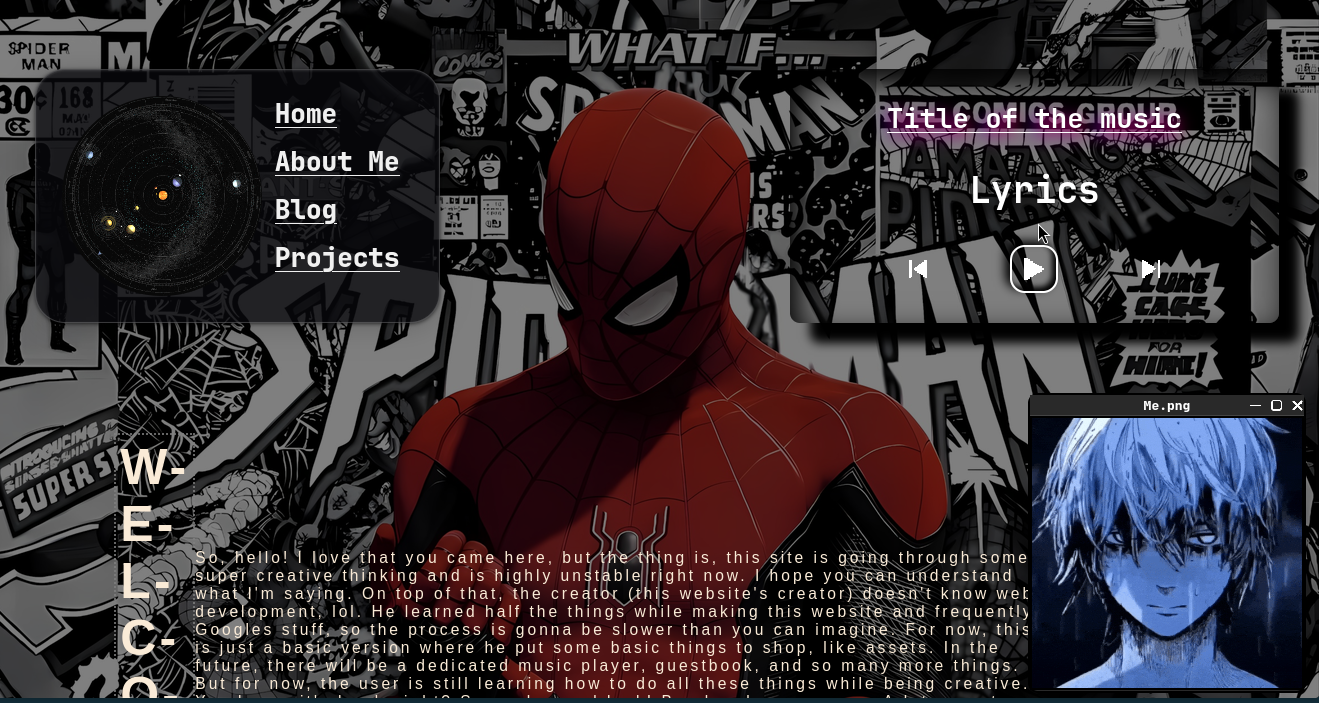
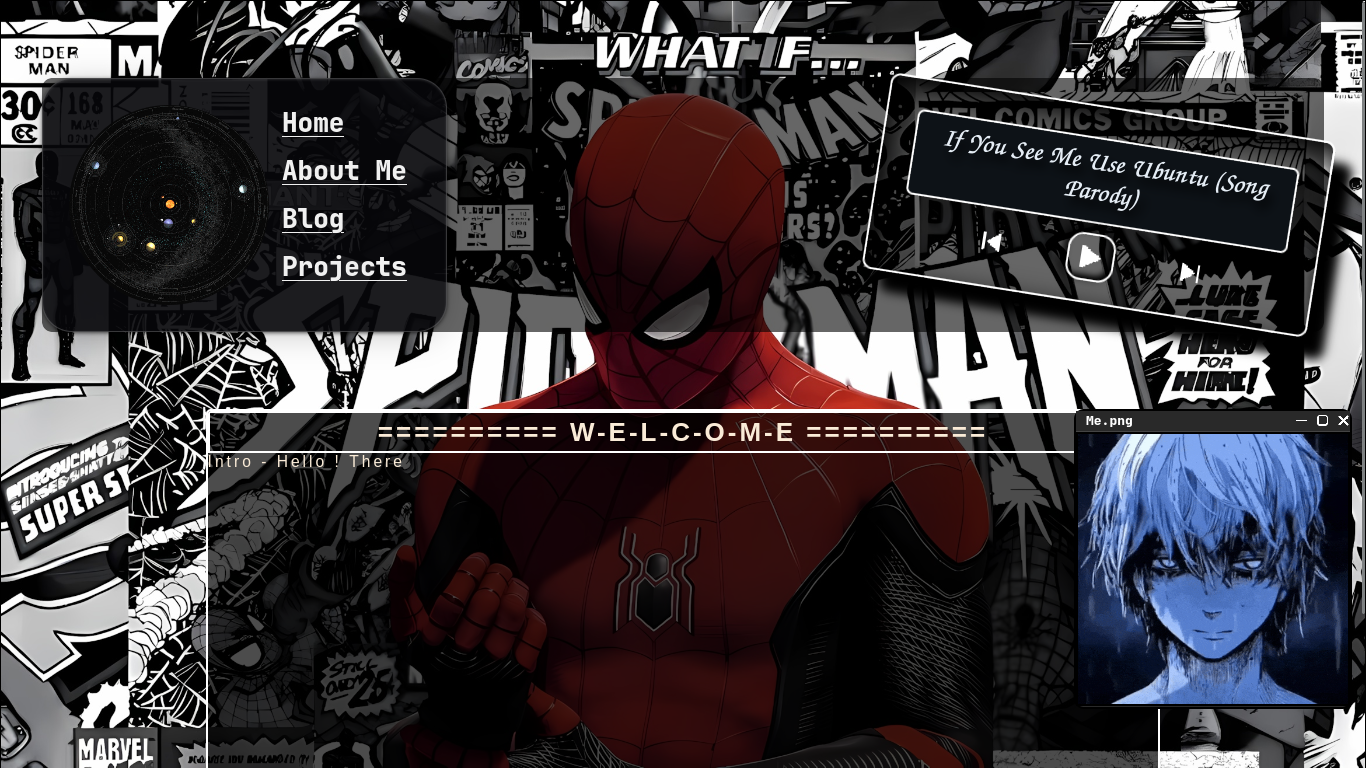
Updated Readme added closing functionality to the app frame and font

diff --git a/style.css b/style.css
@@ -10,7 +10,6 @@ body {
     background-image: url("assets/images/spiderman.png");
     border: 1px solid;
     width: 100vw;
-    backdrop-filter: brightness(50%);
     background-size: cover;
     background-attachment: fixed;
 
@@ -18,37 +17,36 @@ body {
 }
 
 header {
-    justify-content: flex-start;
+    justify-content: space-between;
+
+    backdrop-filter: brightness(40%);
+    border-radius: 10px;
     display: flex;
     margin: 10vh 3vw;
-    /* align-items: center; */
+    align-items: center;
     min-height: max-content;
     width: auto;
 }
 
-#spidermanface {
-    width: 350px;
-    height: auto;
-}
 
 .musicplayer {
-    overflow: hidden;
+    font-family: 'Caveat', cursive;
+    letter-spacing: 0.5px;
+    padding: 20px;
+    transform: rotate(9deg);
     box-shadow: 20px 20px 10px black,
         inset 10px 13px 30px black;
-    display: flex;
-    flex-direction: column;
-    justify-content: space-evenly;
     color: #FFFBF1;
+    border: 2px solid white;
     align-content: center;
+    display: inline-block;
+    position: relative;
     text-align: center;
-    /* color: #241A1B; */
-    font-weight: 500;
-    font-size: 1.4rem;
+    font-weight: 400;
     text-shadow: 5px 8px 10px black;
     border-radius: 10px;
-    width: 350px;
+    width: 450px;
     max-height: 100%;
-    flex-grow: 1;
     position: relative;
 }
 
@@ -118,20 +116,13 @@ header {
 
 
 
-main {
-    margin: 10vh 9vw;
-    color: antiquewhite;
-    height: 80vh;
-    max-height: 70vh;
-    width: 70%;
-    display: flex;
-    justify-content: center;
-}
 
 main h1 {
     padding: 4px;
-    font-size: 50px;
-    border: 2px dotted grey;
+    border: 2px solid white;
+    display: flex;
+    justify-content: center;
+    align-items: center;
 
 }
 
@@ -139,12 +130,27 @@ main p {
     font-size: 1.2rem;
 }
 
-.main-content {
-    display: flex;
+main {
     justify-content: center;
+    display: flex;
+
+
+}
+
+.main-content {
+
+    backdrop-filter: brightness(30%);
+    color: antiquewhite;
+    height: 80vh;
+    max-height: 70vh;
+    width: 70%;
+    white-space: nowrap;
+    overflow: hidden;
+    border: 2px solid white;
     align-items: center;
     letter-spacing: 3px;
     font-family: Arial, Helvetica, sans-serif;
+    border-radius: 5px;
 
 }
 
@@ -198,4 +204,13 @@ a:hover {
     padding: 2rem;
     display: flex;
 
+}
+
+#songtitle-div {
+    margin: 10px;
+    padding: 10px;
+    border: 2px solid white;
+    border-radius: 7px;
+    background-color: #0D1217;
+    color: #E5EDF5;
 }

diff --git a/index.html b/index.html
@@ -7,6 +7,8 @@
     <title></title>
     <link href="style.css" rel="stylesheet" />
     <link href="assets/extra_code/app_frame.css" rel="stylesheet" />
+
+    <link href="https://googleapis.com" rel="stylesheet">
 </head>
 
 <body>
@@ -25,14 +27,13 @@
 
 
 
-        <div id="spidermanface">
-        </div>
 
         <div class="musicplayer">
-            <h2 id="song-title"> </h2>
+            <div id="songtitle-div">
+                <h1 id=song-title>If You See Me Use Ubuntu (Song Parody)</h1>
+            </div>
 
             <div id="lyrics">
-                <h1>Lyrics</h1>
             </div>
 
             <div id="ctrlBtns">
@@ -60,7 +61,7 @@
             <div class="app_bar_button">
                 <img src="assets/Icons/window-minimize.svg" alt="window-minmize">
                 <img src="assets/Icons/window-maximize.svg" alt="window-maximize">
-                <img src="assets/Icons/window-close.svg" alt="window-close">
+                <img src="assets/Icons/window-close.svg" id="close-app-frame" alt="window-close">
 
             </div>
         </div>
@@ -78,26 +79,13 @@
 
     <main>
         <div class="main-content">
+            <div id="main-h1">
+                <h1>========== W-E-L-C-O-M-E ==========</h1>
+            </div>
+            <div id="para">
+                <p>Intro - Hello ! There </p>
 
-            <h1>W-E-L-C-O-M-E</h1>
-            <p>
-                So, hello! I love that you came here, but the thing is, this site is going through some super creative
-                thinking and is highly unstable right now. I hope you can understand what I'm saying.
-
-                On top of that, the creator (this website's creator) doesn't know web development, lol. He learned half
-                the
-                things while making this website and frequently Googles stuff, so the process is gonna be slower than
-                you
-                can imagine.
-
-                For now, this is just a basic version where he put some basic things to shop, like assets. In the
-                future,
-                there will be a dedicated music player, guestbook, and so many more things. But for now, the user is
-                still
-                learning how to do all these things while being creative. You know, it's hard, right?
-
-                So yeah, good luck! Bye bye bye ............ A lot more to come!
-            </p>
+            </div>
 
         </div>
     </main>

diff --git a/assets/extra_code/smallapps.js b/assets/extra_code/smallapps.js
@@ -11,6 +11,8 @@ const appname = document.querySelector(".app-name");
 const songtitle = document.getElementById("song-title");
 const leftframe = document.getElementById("left-frame");
 const rightframe = document.getElementById("right-frame");
+const appframeclose = document.getElementById("close-app-frame");
+const appframe = document.getElementById("app_frame");
 
 
 async function songdata() {
@@ -66,15 +68,6 @@ async function imgdata() {
     }
 }
 
-
-
-
-
-
-
-
-
-
 // ================= Main Function 
 async function main() {
     var songindex = 0;
@@ -104,6 +97,7 @@ async function main() {
     rightframe.addEventListener("click", () => {
         imgindex = (imgindex + 1) % appimages.images.length;
         appimg.src = encodeURI("assets/" + appimages.images[imgindex].image)
+        appname.textContent = appimages.images[imgindex].appname;
 
     })
 
@@ -113,6 +107,10 @@ async function main() {
             imgindex = appimages.images.length - 1;
         }
         appimg.src = encodeURI("assets/" + appimages.images[imgindex].image);
+        appname.textContent = appimages.images[imgindex].appname;
+    })
+    appframeclose.addEventListener("click", () => {
+        appframe.remove();
     })
 
 }

diff --git a/assets/extra_code/app_frame.css b/assets/extra_code/app_frame.css
@@ -1,5 +1,6 @@
 #app_frame {
     position: absolute;
+    z-index: 999;
     right: 1rem;
     border-radius: 10px;
     height: 300px;

diff --git a/README.md b/README.md
@@ -1,13 +1,40 @@
 # Cool Indie Portfolio Website
 
-- Just a image of Homepage
+Just an image of the homepage : )
 
 ![Homepage-Now](assets/Update_Images/Present.png)
 
-
 ## About
 
-This is the code for my indie website, which I created after discovering some cool websites on Neocities. I always wanted to make something cool like those, so I started working on this website. It's still incomplete, and I'm working on it!
+This is the code for my indie website, which I started working on after discovering some really cool websites on Neocities. I always wanted to make something like those, so here I am!
+
+The website is still incomplete, and I'm constantly working on it. There's a lot more to come!
+
+## How to Run Locally
+
+This project now uses **npm** because it's getting bigger : )
+
+Here's how you can run it locally:
+
+1. Clone or download the repository.
+
+2. Install the dependencies:
+
+   ```bash
+   npm install
+   ```
+
+   This will install Vite and the other project dependencies.
+
+3. Start the development server:
+
+   ```bash
+   npm run dev
+   ```
+
+   This will start the Vite development server and give you a local link. Open that link in your browser, and you're good to go!
+
+I'd also recommend learning a little about npm. It'll help you with many other things too.
 
 ## Fair Use
 
@@ -15,21 +42,20 @@ You can use the code however you want, just don't copy it without giving me cred
 
 It's hosted on GitHub Pages. Here's the link to the repository:
 
-```text
-https://github.com/Krish-Saga/web
-```
+[GitHub Repository](https://github.com/Krish-Saga/web)
 
 ## Easter Eggs
 
-Tbh, this website is going through a lot of changes right now, but the final goal is to fill it with Easter eggs and cool indie stuff that reflects my personality : ) (which I don't have lol).
+Tbh, this website is going through a lot of changes, but the goal is to fill it with Easter eggs and cool indie stuff that reflects my personality : ) (which I don't have lol).
 
 And yeah, it's still in its early days.
 
 1. Try hovering over the globe.
 2. You can move the image. There'll be something cool related to it in future updates.
-3.Try hovering hover everything 
-4.Make sure to hit every button some won't work cuz I will add things on them later
-3. I've thought of a lot more Easter eggs that I'll add in future updates. I'll update this section as soon as I implement them.
+3. Try hovering over everything!
+4. Make sure to click every button. Some of them might not work yet because I'll add their functionality in future updates.
+
+I've thought of a lot more Easter eggs that I'll add in future updates. I'll update this section as soon as I implement them.
 
 ## License
 
@@ -43,7 +69,9 @@ And don't forget to check out my website! Now just gooooo 🏃♂💨
 
 ## Extra Info
 
-Fine, you wanna know more? There'll be a guestbook and a dedicated blog section. Open blog, lol. Yeah, you can create an account and write a blog about anything : )
+Fine, you wanna know more?
+
+There'll be a guestbook and a dedicated blog section. Open blog, lol. Yeah, you'll be able to create an account and write a blog about anything : )
 
 Just don't make it creepy or anything like that : )
 
@@ -53,23 +81,26 @@ More things are coming, of course! I can't write all of them here.
 
 Just gooooooooooooooooooooooooooooooooooooo.
 
+## Work in Progress
 
+Well, I'll update this section whenever I add something new!
 
-## Underwork peek
+## Previous Versions
 
-- Well will update as soon as I update new work on here
+Here's a look at how the website has changed over time. You can compare the previous designs with the current one.
 
-
-## Past Version to track how much it changed from past.
-- Base1
+### Base 1
 
 ![Base1](assets/Update_Images/Base1.png)
 
-- Base2
+### Base 2
 
 ![Base2](assets/Update_Images/Base2.png)
 
-- Base3
+### Base 3
 
 ![Base3](assets/Update_Images/Base3.png)
 
+### Base 4
+
+![Base4](assets/Update_Images/Base4.png)
